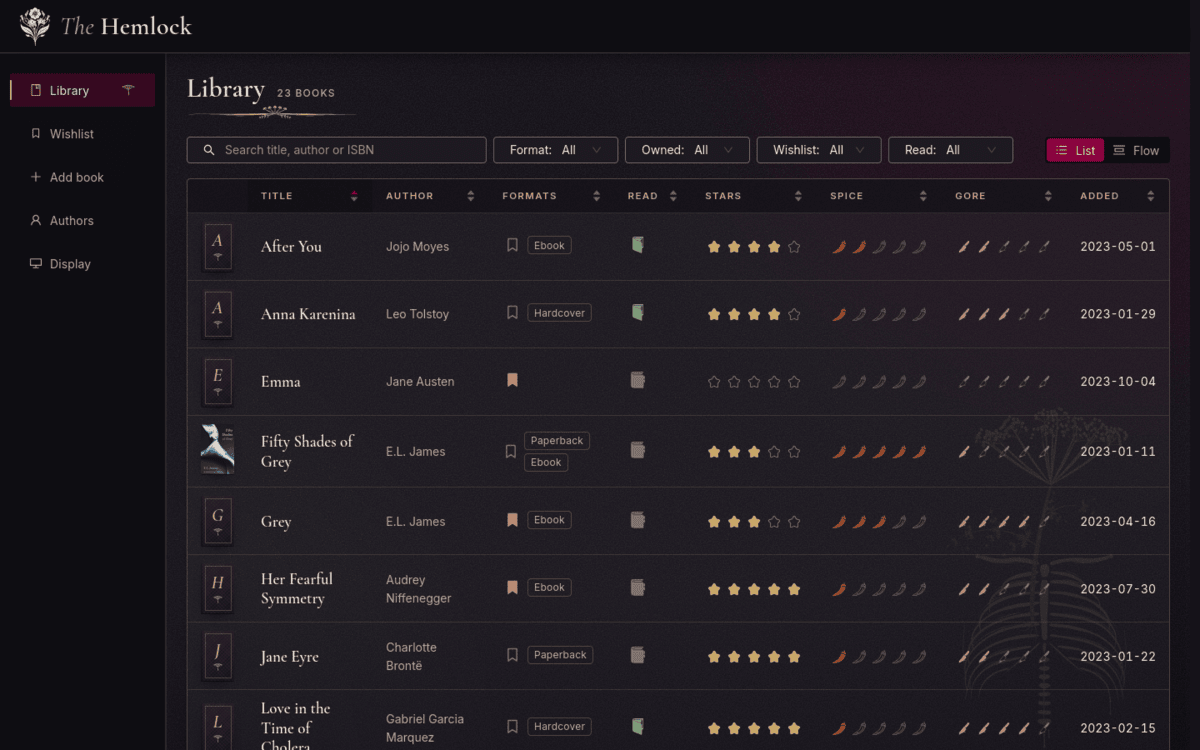
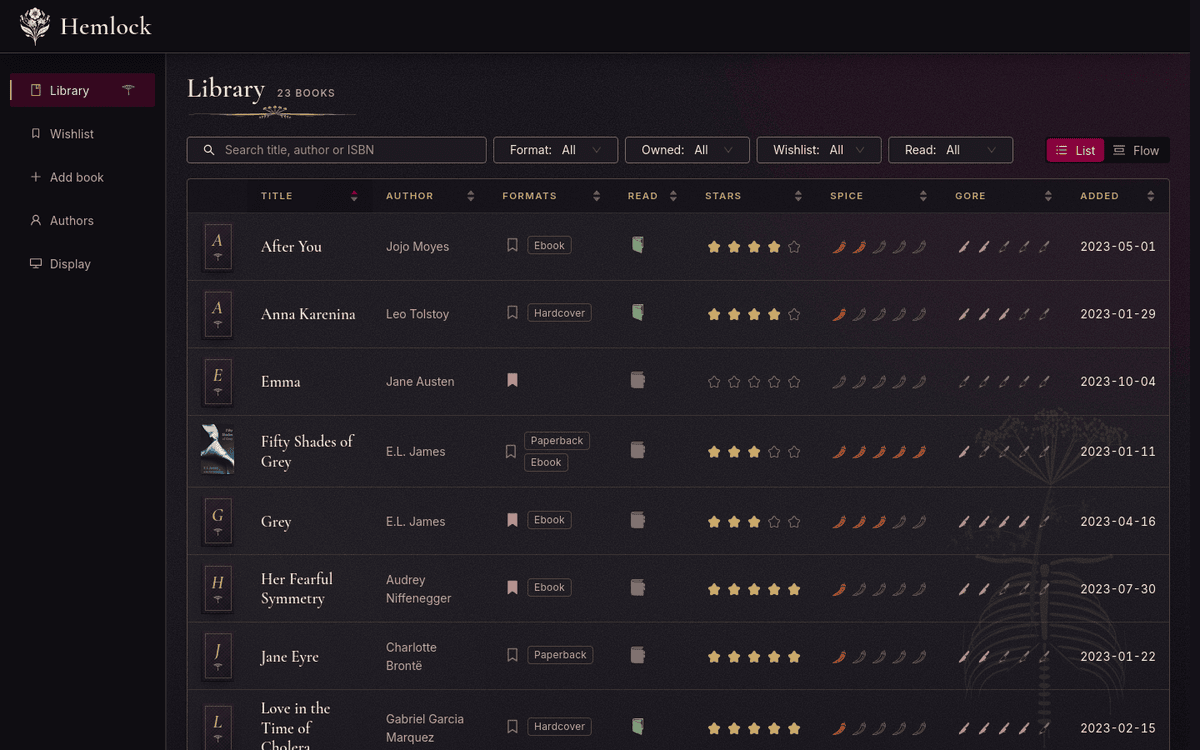
Frontend: call the library Hemlock, without the article
- The shell's wordmark, the page title and the display's brass caption read Hemlock; the italic article and its style rule are gone.
- The wiki names the library the same way, and the README's screenshots show the new wordmark.

diff --git a/client/index.html b/client/index.html
@@ -9,10 +9,10 @@ SPDX-License-Identifier: GPL-3.0-only
     <link rel="icon" href="/favicon.ico" />
     <meta name="theme-color" content="#0f0d12" />
     <meta name="viewport" content="width=device-width, initial-scale=1" />
-    <title>The Hemlock</title>
+    <title>Hemlock</title>
   </head>
   <body>
-    <noscript>The Hemlock needs JavaScript.</noscript>
+    <noscript>Hemlock needs JavaScript.</noscript>
     <div id="root"></div>
     <script type="module" src="/src/main.jsx"></script>
   </body>

diff --git a/client/src/App.jsx b/client/src/App.jsx
@@ -50,7 +50,7 @@ const Wordmark = () => (
   <Link to="/library" className="shell-brand">
     <img src={config.logo} alt="" className="shell-logo" />
     <h1 className="shell-title">
-      <span className="shell-title-article">The</span> Hemlock
+      Hemlock
     </h1>
   </Link>
 )

diff --git a/client/src/styles/shell.css b/client/src/styles/shell.css
@@ -48,12 +48,6 @@
   transition: color 0.2s ease;
 }
 
-.shell-title-article {
-  color: var(--muted);
-  font-style: italic;
-  font-weight: 400;
-}
-
 .shell-sider {
   border-inline-end: 1px solid var(--hairline-faint);
 }

diff --git a/wiki/README.md b/wiki/README.md
@@ -31,7 +31,7 @@ A newcomer starts with [Development setup](dev-setup.md) to run the app,
   sessions and secrets.
 - [Style](style.md): comments, license headers, wiki pages, commits, Ant
   Design usage and responsive layout.
-- [Theme](theme.md): the look of The Hemlock: palette and contrast, fonts,
+- [Theme](theme.md): the look of Hemlock: palette and contrast, fonts,
   ornaments, texture, covers without an image, and the rules for a new page.
 - [Deployment](deployment.md): the box, install and redeploy, the paths,
   secrets, backups and restore, logs, and the reverse proxy's requirements.

diff --git a/wiki/display.md b/wiki/display.md
@@ -88,7 +88,7 @@ The shell's **Display** menu item opens `/display` in a new tab.
   on `:root` in `client/src/styles/index.css` ([Theme](theme.md)): ink with a
   vignette, cream text, the title in Cormorant Garamond, the author in Lora
   italic and dusty rose, the synopsis in Lora.
-- "The Hemlock" sits small in brass in the stage's lower right corner, with
+- "Hemlock" sits small in brass in the stage's lower right corner, with
   an umbel.
 - Slides crossfade over one second; `prefers-reduced-motion` turns that off.
 

diff --git a/wiki/theme.md b/wiki/theme.md
@@ -9,7 +9,7 @@ on `:root` in `client/src/styles/index.css`.
 
 ## Identity
 
-The library is **The Hemlock**: the name in `config.json`
+The library is **Hemlock**: the name in `config.json`
 (`website.title`), the header's wordmark (the logo, then "The" in light
 italic and "Hemlock"), the document title, and the caption on the display
 page. The project and the repository stay "Hemlock".
